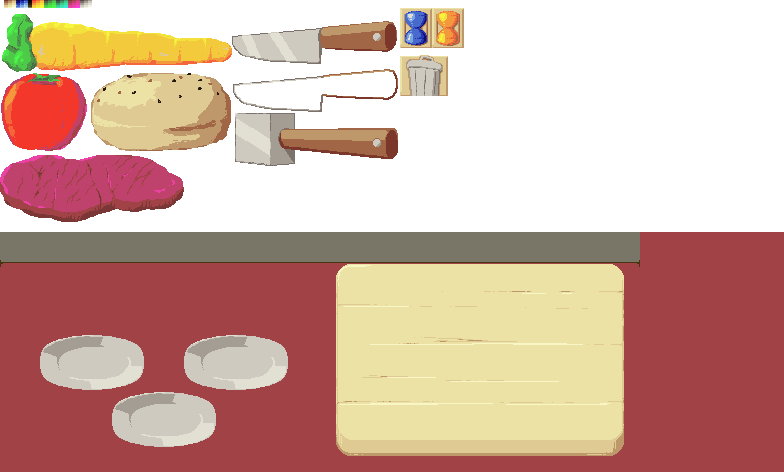
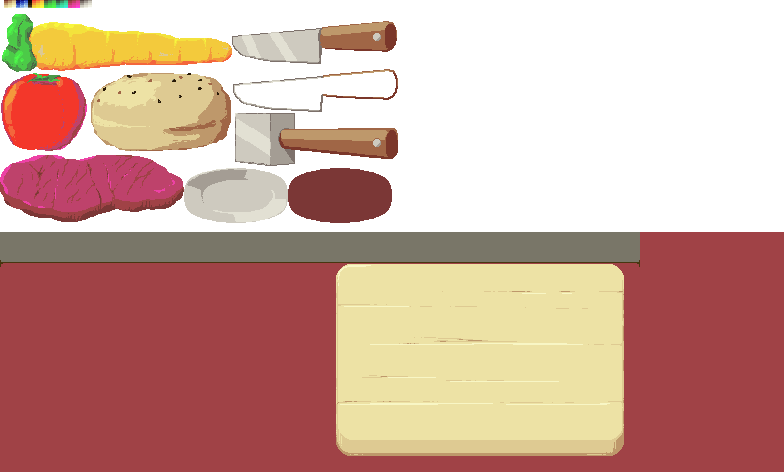
transition between tbs and kitchen

Changed region(s): [[0.0306, 0.7119, 0.3673, 0.9492], [0.2143, 0.3559, 0.5204, 0.4746], [0.4898, 0.0, 0.6122, 0.2076]]

diff --git a/README.md b/README.md
@@ -19,7 +19,6 @@ Combat is a turn-based (soft time limit) strategy on an isometric grid against e
 
  - cooking
    - assembling burger
-     <- burger model + graphics
      <- plates
      <- gui to deploy / trash
 
@@ -40,9 +39,6 @@ Combat is a turn-based (soft time limit) strategy on an isometric grid against e
      - units
    - overall stats, progression
  - graphics
-   - pseudo-3D renderer - 10h
-     - [x] walls, floors, tilts
-     - [x] simple 3D build method
    - particle effecs
    - [.] time progression via palette shifts
    - cooking
@@ -60,6 +56,7 @@ Combat is a turn-based (soft time limit) strategy on an isometric grid against e
 
  - PERF cull back faces
  - VIS shadows
+ - VIS banners
 
 ## Music list ##
 
@@ -101,3 +98,4 @@ Combat is a turn-based (soft time limit) strategy on an isometric grid against e
    - select unit
    - deselect unit
    - switch screens / swoosh (combat screen slide transitioned into cookery screen)
+   - item being dropped in a trash can
